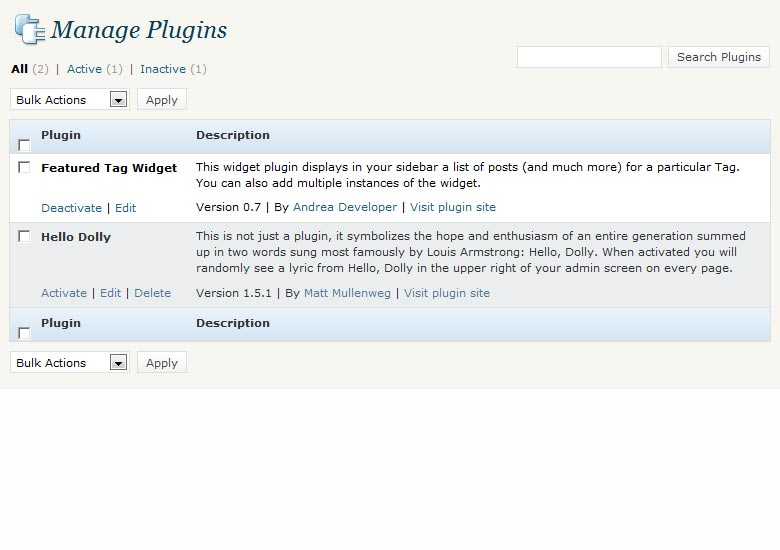
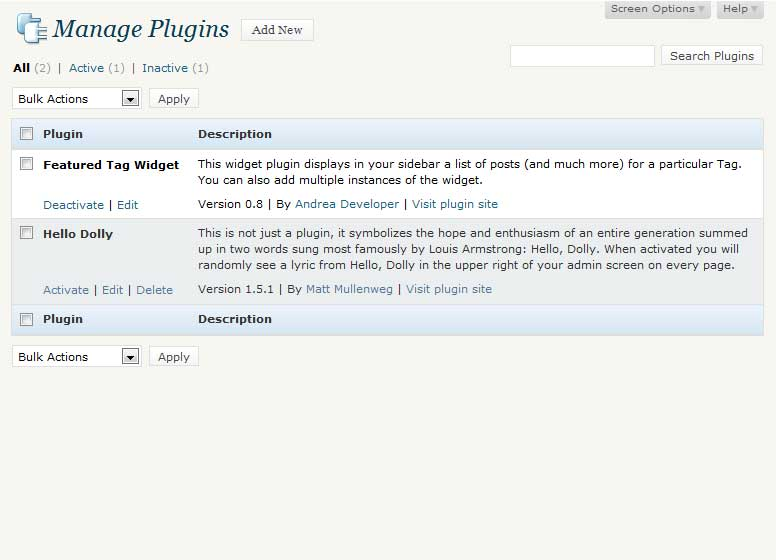
git-svn-id: https://plugins.svn.wordpress.org/featured-tag-widget/trunk@214651 b8457f37-d9ea-0310-8a92-e5e31aec5664

Changed region(s): [[0.0, 0.0309, 0.9897, 0.68], [0.7732, 0.0, 0.9897, 0.0618], [0.866, 0.0927, 0.9897, 0.1236]]

diff --git a/featured-tag-widget.php b/featured-tag-widget.php
@@ -4,7 +4,7 @@ Plugin Name: Featured Tag Widget
 Plugin URI: http://wordpress.org/extend/plugins/featured-tag-widget/
 Description: This widget plugin displays in your sidebar a list of posts (and much more) for a particular Tag. You can also add multiple instances of the widget.
 Author: Andrea Developer
-Version: 0.7
+Version: 0.8
 Author URI: http://wordpress.org/extend/plugins/featured-tag-widget/
 
 This program is free software; you can redistribute it and/or
@@ -215,41 +215,43 @@ function widget_ftwp_control( $widget_args = 1 ) {
         
 	<?php $all_tags = get_tags('orderby=name&order=ASC'); ?>      		    
 	<?php if ( $all_tags ) {  ?>
-		 <label for="widget-featured-tag-tag-<?php echo $number; ?>"><?php echo __('Tag:', 'widgets'); ?>
-         <select id="widget-featured-tag-tag-<?php echo $number; ?>" name="widget-featured-tag[<?php echo $number; ?>][tag]">		
-            <?php foreach($all_tags as $the_tag):?>
-               <option <?php if ($the_tag->term_id==$featuredtag) echo 'selected="selected"';?> value="<?php echo $the_tag->term_id;?>"><?php echo $the_tag->name; ?> - ID <?php echo $the_tag->term_id;?></option>
-            <?php endforeach;?>
-         </select>
-        </label>                                
-        </p> 
-        
-        <p style="text-align:left;">
-           <label for="widget-featured-tag-n-<?php echo $number; ?>"><?php echo __('Number of posts to show:'); ?>
-           <input size="5" id="widget-featured-tag-n-<?php echo $number; ?>" value="<?php echo $nposts; ?>" name="widget-featured-tag[<?php echo $number; ?>][nposts]"></input> (<i>empty = all</i>)
-            </label>
-        </p> 
-        
-        <p style="text-align:left;">
-           <label for="widget-featured-tag-show-image-<?php echo $number; ?>"><?php echo __('Show Posts Images Thumb:'); ?>       
-           <input type="checkbox" id="widget-featured-tag-show-image-<?php echo $number; ?>" name="widget-featured-tag[<?php echo $number; ?>][showimage]" 
-            <?php checked( $showimage,true ); ?>  /></input> (<i>if present</i>)
-            </label>
-        </p>    
-        
-        <p style="text-align:left;">
-           <label for="widget-featured-tag-show-title-<?php echo $number; ?>"><?php echo __('Show Posts Titles:'); ?>       
-           <input type="checkbox" id="widget-featured-tag-show-title-<?php echo $number; ?>" name="widget-featured-tag[<?php echo $number; ?>][showtitle]" 
-            <?php checked( $showtitle,true ); ?>  /></input>    
-            </label>
-        </p>     
-        
-        <p style="text-align:left;">
-           <label for="widget-featured-tag-show-author-<?php echo $number; ?>"><?php echo __('Show Posts Authors:'); ?>       
-           <input type="checkbox" id="widget-featured-tag-show-author-<?php echo $number; ?>" name="widget-featured-tag[<?php echo $number; ?>][showauthor]" 
-            <?php checked( $showauthor,true ); ?>  /></input>
-            </label>
-        </p>    
+    
+             <label for="widget-featured-tag-tag-<?php echo $number; ?>"><?php echo __('Tag:', 'widgets'); ?>
+             <select id="widget-featured-tag-tag-<?php echo $number; ?>" name="widget-featured-tag[<?php echo $number; ?>][tag]">		
+                <?php foreach($all_tags as $the_tag):?>
+                	<?php $postcounter = $the_tag->count;?>
+                   <option <?php if ($the_tag->term_id==$featuredtag) echo 'selected="selected"';?> value="<?php echo $the_tag->term_id;?>"><?php echo $the_tag->name; ?> - <?php echo $the_tag->term_id;?> - (<?php echo $postcounter;?>)</option>
+                <?php endforeach;?>
+             </select>
+            </label> Name - ID - (total posts)                                
+            </p> 
+            
+            <p style="text-align:left;">
+               <label for="widget-featured-tag-n-<?php echo $number; ?>"><?php echo __('Number of posts to show:'); ?>
+               <input size="5" id="widget-featured-tag-n-<?php echo $number; ?>" value="<?php echo $nposts; ?>" name="widget-featured-tag[<?php echo $number; ?>][nposts]"></input> (<i>empty = all</i>)
+                </label>
+            </p> 
+            
+            <p style="text-align:left;">
+               <label for="widget-featured-tag-show-image-<?php echo $number; ?>"><?php echo __('Show Posts Images Thumb:'); ?>       
+               <input type="checkbox" id="widget-featured-tag-show-image-<?php echo $number; ?>" name="widget-featured-tag[<?php echo $number; ?>][showimage]" 
+                <?php checked( $showimage,true ); ?>  /></input> (<i>if present</i>)
+                </label>
+            </p>    
+            
+            <p style="text-align:left;">
+               <label for="widget-featured-tag-show-title-<?php echo $number; ?>"><?php echo __('Show Posts Titles:'); ?>       
+               <input type="checkbox" id="widget-featured-tag-show-title-<?php echo $number; ?>" name="widget-featured-tag[<?php echo $number; ?>][showtitle]" 
+                <?php checked( $showtitle,true ); ?>  /></input>    
+                </label>
+            </p>     
+            
+            <p style="text-align:left;">
+               <label for="widget-featured-tag-show-author-<?php echo $number; ?>"><?php echo __('Show Posts Authors:'); ?>       
+               <input type="checkbox" id="widget-featured-tag-show-author-<?php echo $number; ?>" name="widget-featured-tag[<?php echo $number; ?>][showauthor]" 
+                <?php checked( $showauthor,true ); ?>  /></input>
+                </label>
+            </p>    
         
 	<?php } else { echo 'Tag: No Tag found ( <i>Insert at least one Tag in any post</i> )'; }?>           
     <input type="hidden" id="widget-featured-tag-submit-<?php echo $number; ?>" name="widget-featured-tag[<?php echo $number; ?>][submit]" value="1" />
